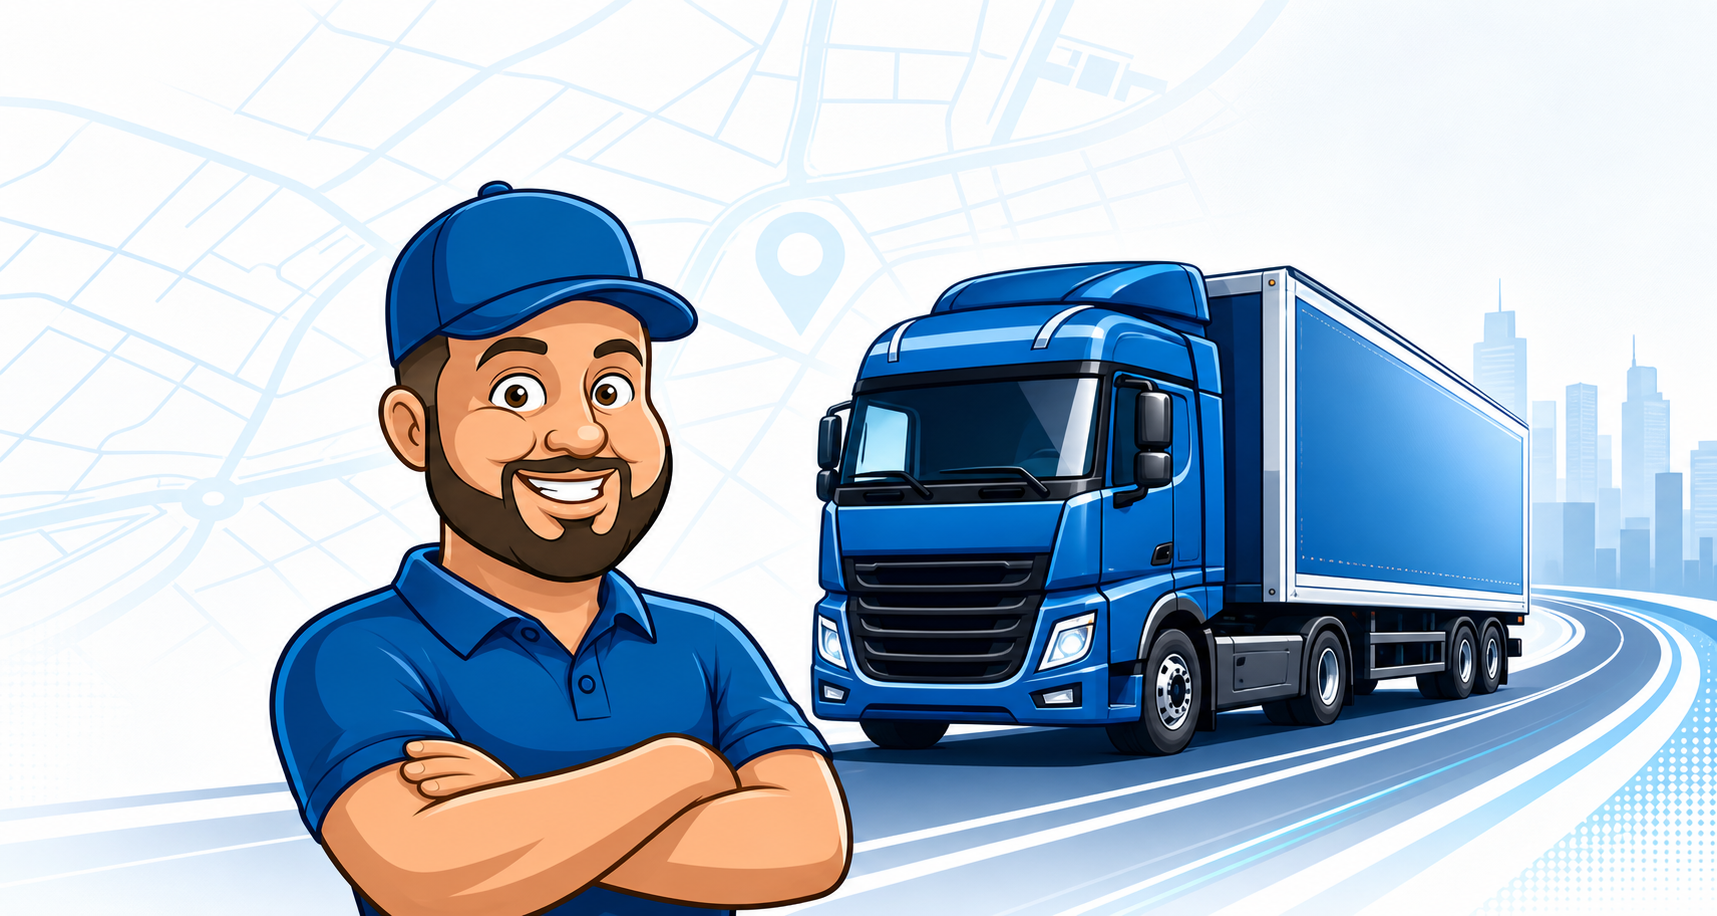
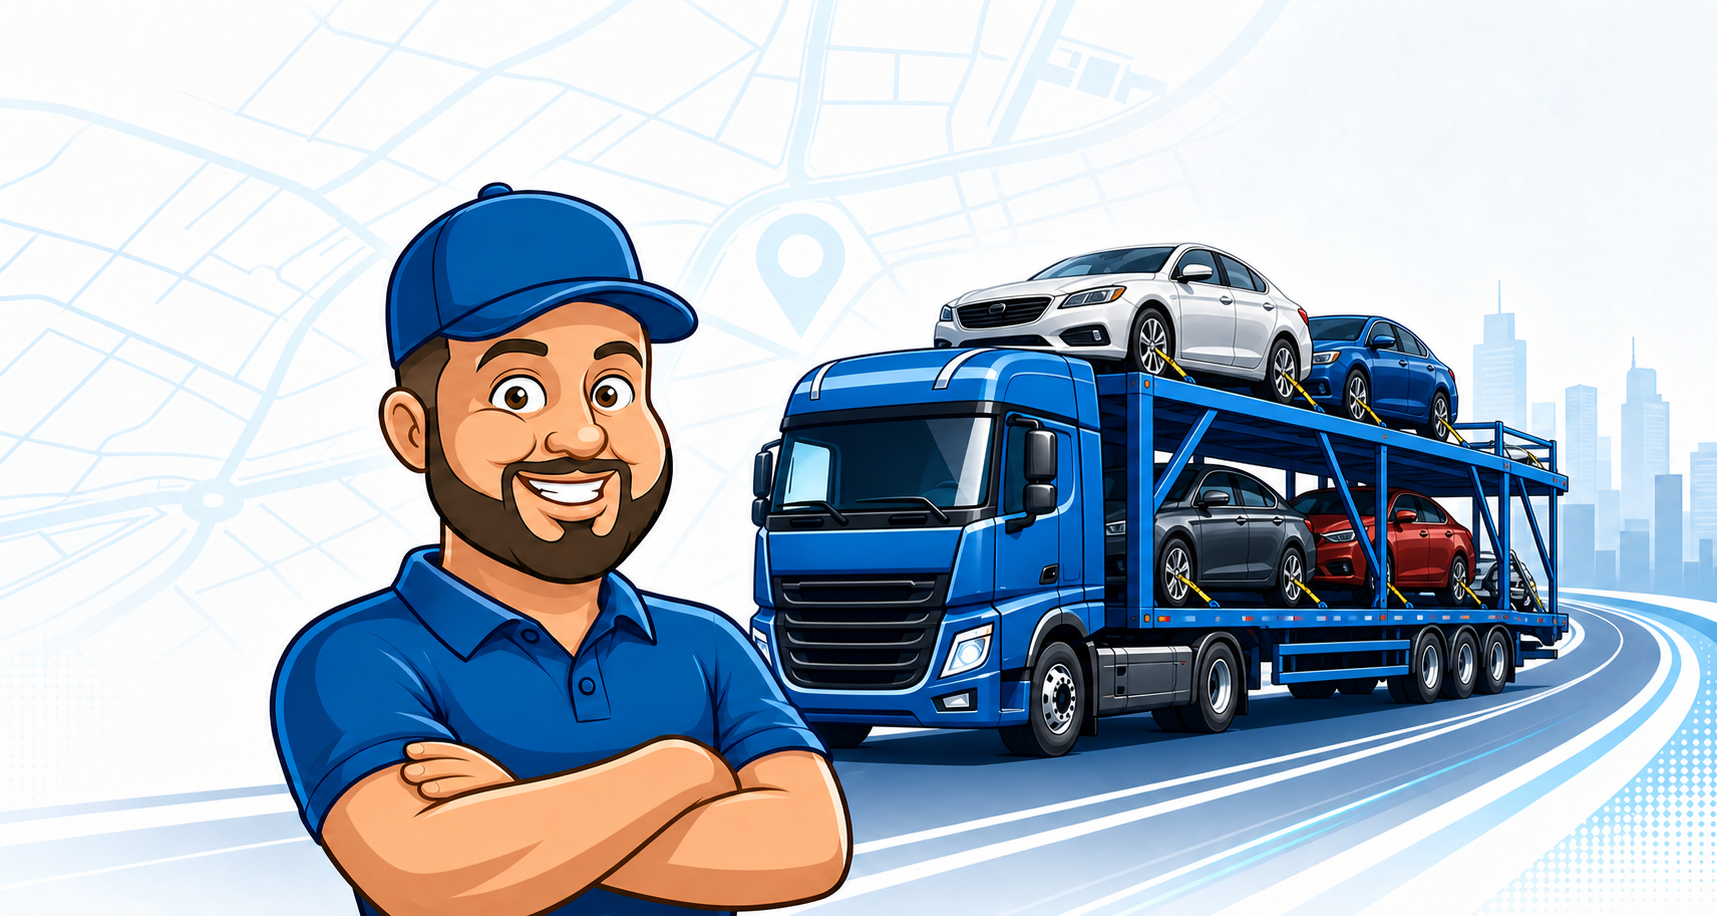
feat: substituir caminhao por carreta cegonha

diff --git a/index.html b/index.html
@@ -17,7 +17,7 @@
   <main>
     <section id="inicio" class="hero">
       <div class="hero-copy"><span class="kicker">Movendo caminhos. Aproximando destinos.</span><h1>Transporte seguro para o seu negócio seguir em frente.</h1><p>A LA Transportes oferece soluções logísticas eficientes, com acompanhamento cuidadoso e compromisso em cada entrega.</p><div class="hero-actions"><a class="button button-primary" href="#contato">Solicitar atendimento</a><a class="button button-secondary" href="#servicos">Conheça nossos serviços</a></div></div>
-      <div class="hero-visual"><img src="assets/hero-la-transportes.png" alt="Motorista da LA Transportes ao lado de um caminhão azul em uma rota de entregas"><div class="hero-badge"><span>✓</span><div><strong>Transporte confiável</strong><small>Do ponto de partida ao destino</small></div></div></div>
+      <div class="hero-visual"><img src="assets/hero-la-transportes.png" alt="Motorista da LA Transportes ao lado de uma carreta-cegonha azul carregada com automóveis"><div class="hero-badge"><span>✓</span><div><strong>Transporte confiável</strong><small>Do ponto de partida ao destino</small></div></div></div>
     </section>
     <section class="trust-strip" aria-label="Diferenciais"><div><strong>Segurança</strong><span>Cuidado em todas as etapas</span></div><div><strong>Agilidade</strong><span>Operação planejada e eficiente</span></div><div><strong>Confiança</strong><span>Compromisso com cada cliente</span></div></section>
     <section id="servicos" class="section services">
